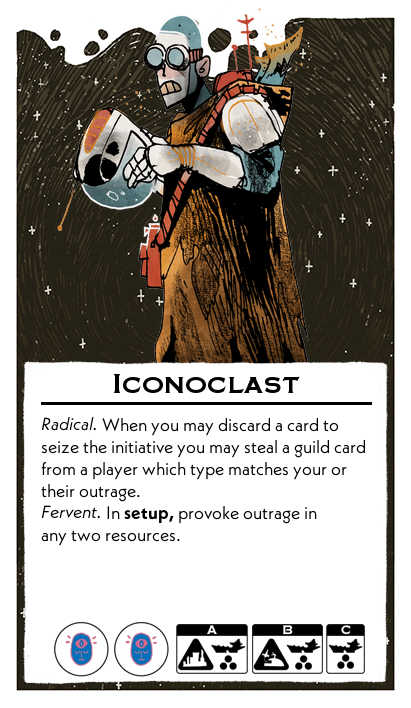
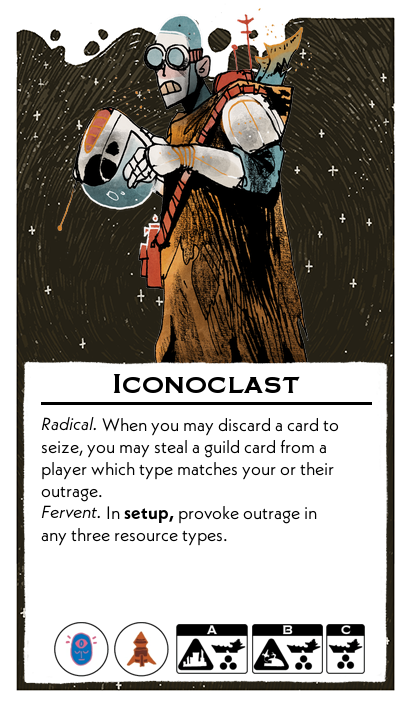
iconoclast and general

Changed region(s): [[0.0876, 0.6215, 0.9051, 0.7147], [0.1752, 0.7458, 0.5547, 0.7768], [0.292, 0.8701, 0.3796, 0.9633]]

diff --git a/scripts/leadersFormatted.py b/scripts/leadersFormatted.py
@@ -80,7 +80,7 @@ leaders = [
     {
         "name": "General",
         "abilities": (
-            "*Blitzing.* When you gain tax to gain a resource, you may discard it to gain a weapon instead. You may a discard weapons to ignore one rolled intercept.**\n"
+            "*Blitzing.* When you tax to gain a resource, you may discard it to gain a weapon instead. You may a discard a weapon resource to ignore one rolled intercept.\n"
             "*Reckless.* In  **battle,** you must always roll at least 1 dice of each type if you can."
         ),
         "resources": ["Weapon", "Weapon"],
@@ -628,10 +628,10 @@ leaders = [
     {
         "name": "Iconoclast",
         "abilities": (
-            "*Radical.* When you may discard a card to seize the initiative you may steal a guild card from a player which type matches your or their outrage.\n"
-            "*Fervent.* In **setup,** provoke outrage in any two resources."
+            "*Radical.* When you may discard a card to seize, you may steal a guild card from a player which type matches your or their outrage.\n"
+            "*Fervent.* In **setup,** provoke outrage in any three resource types."
         ),
-        "resources": ["Psionic", "Psionic"],
+        "resources": ["Psionic", "Weapon"],
         "setup": {
             "A": {"ships": 3, "building": "city"},
             "B": {"ships": 3, "building": "starport"},
